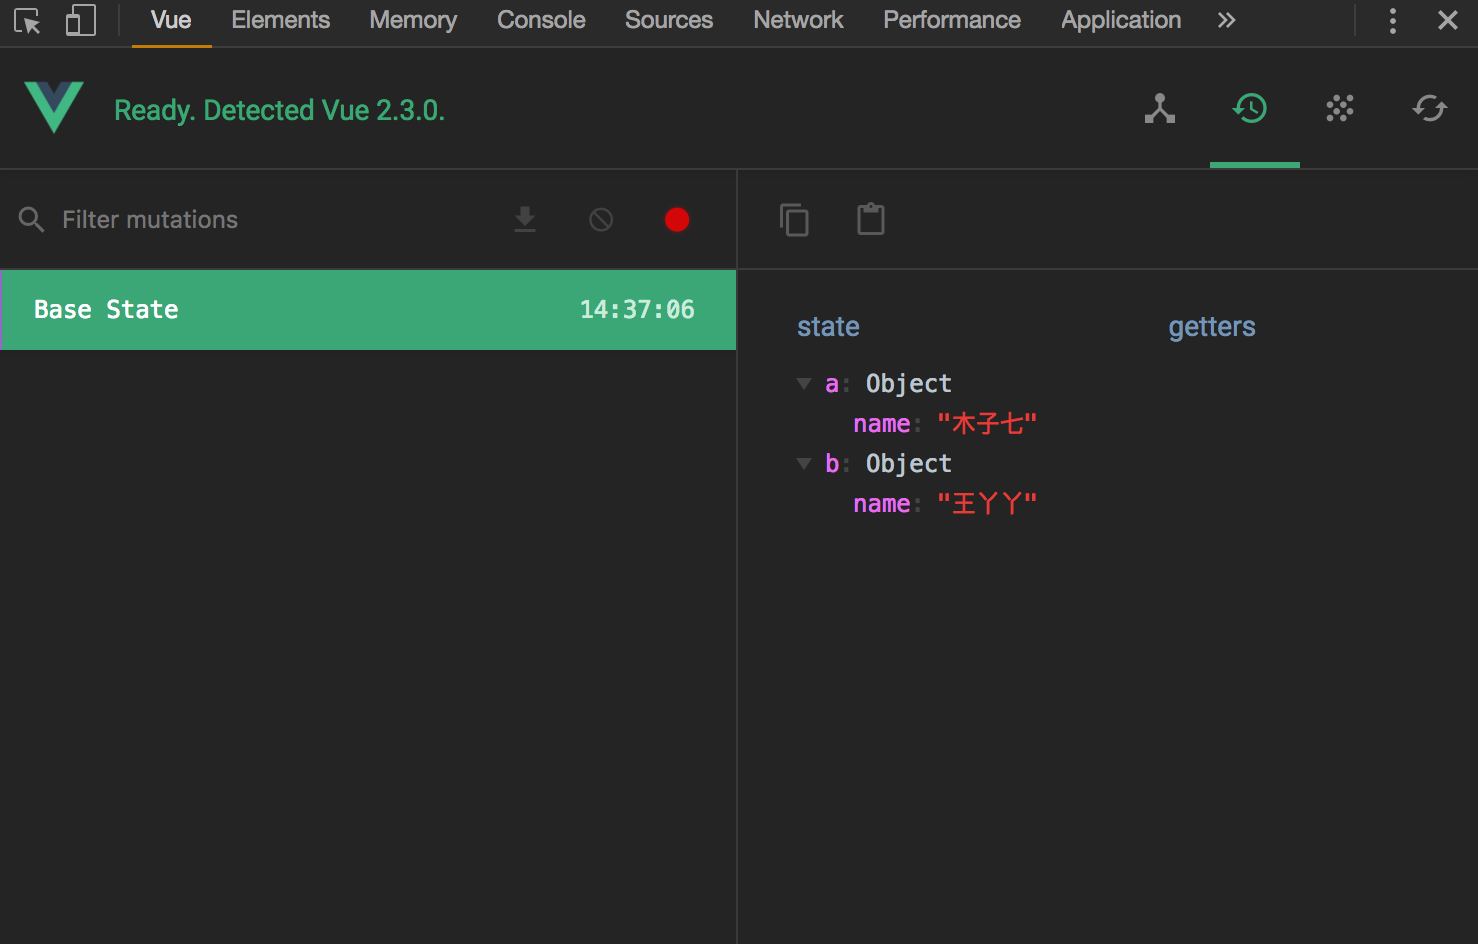
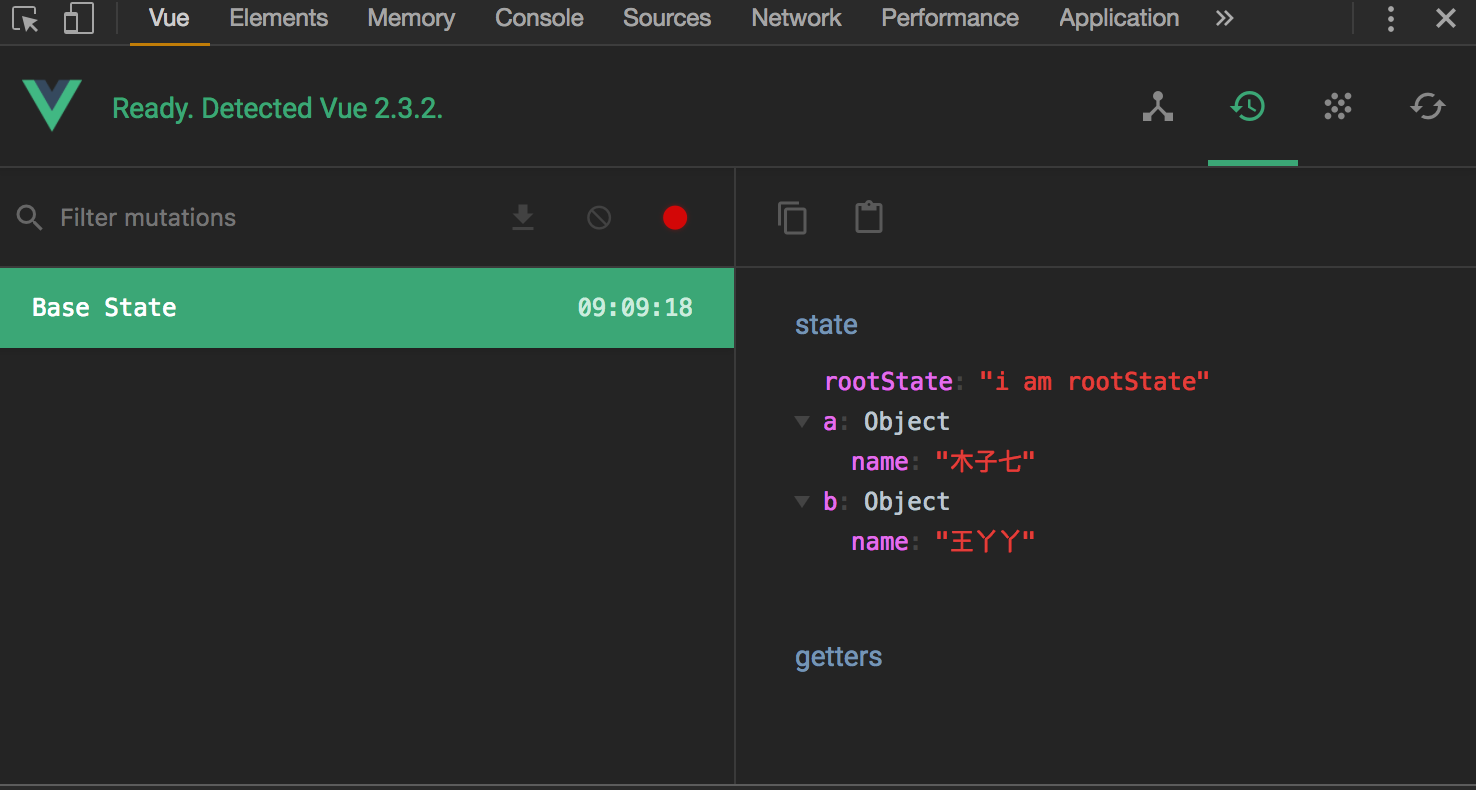
complete Vuex project

diff --git a/Vue/Vuex/modules.md b/Vue/Vuex/modules.md
@@ -3,10 +3,10 @@
 - [Modules - 基础使用](#modules)
 - [Split - 拆分模块](#split)
 
-### Modules
+## Modules
 ##### [返回索引](#索引)
 **基础**
-> 未拆分的情况下，使用 modules 属性
+> 在未拆分的情况下，使用 modules 属性
 
 在 `./main.js` 中定义modules
 ``` javascript
@@ -30,6 +30,9 @@ const ModuleB = {
 
 // use modules
 const store = new Vuex.Store({
+    state: {
+        rootState: 'i am rootState'
+    },
     modules: {
         a: ModuleA,
         b: ModuleB
@@ -51,42 +54,26 @@ new Vue({
 
 ![s](./images/modules-state.png)
 
-### 引用模版中的 `state` 状态数据有两种方式：
-- 传统使用 computed 属性引用
-``` javascript
-export default {
-    computed: {
-        nameA () {
-            return this.$store.state.a.name
-        },
-        nameB () {
-            return this.$store.state.b.name
-        }
-    }
-}
-```
-
-- 辅助函数 mapState 引用
+🦊 可以看到，modules 中的 state 与根节点的 state 唯一的区别就是，modules 中的 state 被封装到一个对象里面，只要我们知道该对象的 key，就能访问到它。
 ``` javascript
 import { mapState } from 'vuex'
 export default {
     computed: {
-        ...mapState({
-            nameA (state) {
-                return state.a.name
-            },
-            nameB (state) {
-                return state.b.name
-            }
-        })
+        ...mapState([
+            'rootState',
+            'a',
+            'b'
+        ])
     }
 }
 ```
-### 其余属性 `mutations actions getters` 引用方式略微不同
-> `mutations actions getters` 依靠命名来区分彼此\
-以下使用一个简单 DEMO 来演示
 
 <br/>
+
+## `mutations actions getters`
+这些属性并不会像 modules 中的 state 一样，被一个对象所包裹；\
+事实上每一个模块中的这些属性，都是暴露出来的，所以他们的 **命名需要唯一**。\
+如下实例：
 
 `./main.js`
 ``` javascript
@@ -101,6 +88,8 @@ const ModuleA = {
     count: 0
   },
   getters: {
+    // @param [state]     该参数是局部的，访问的是 module 中的状态
+    // @param [rootState] 该参数访问的是根节点的 state 状态
     countFilterA (state, getters, rootState) {
       if (state.count > 5) {
         return state.count
@@ -113,7 +102,6 @@ const ModuleA = {
     }
   },
   actions: {
-    // rootState 是根节点 store.state 的状态
     increaseAsyncA ({ state, commit, rootState }) {
       if ((state.count + rootState.count) % 2 === 1) {
         commit('increaseA')
@@ -166,8 +154,8 @@ new Vue({
     <div class="contianer">
         {{countFilterA}}
         {{countFilterB}}
-        <p>module-a: <button @click="increaseA">{{countA}}</button></p>
-        <p>module-b: <button @click="increaseB">{{countB}}</button></p>
+        <p>module-a: <button @click="increaseA">{{a.count}}</button></p>
+        <p>module-b: <button @click="increaseB">{{b.count}}</button></p>
         <button @click="increaseAsyncA">actions</button>
     </div>
 </template>
@@ -181,14 +169,10 @@ import { mapActions } from 'vuex'
 export default {
     computed: {
         // state
-        ...mapState({
-            countA (state) {
-                return state.a.count
-            },
-            countB (state) {
-                return state.b.count
-            }
-        }),
+        ...mapState([
+            'a',
+            'b'
+        ]),
         // getters
         ...mapGetters([
             'countFilterA',
@@ -210,4 +194,210 @@ export default {
 </script>
 ```
 
-### split
+## split
+> vuex 的模块拆分没有想象中的那么难，只要掌握 ES6 中 [Modules](http://www.infoq.com/cn/articles/es6-in-depth-modules) 相关的知识，就很容易理解。
+
+### 1.项目结构
+```
+|-demo
+  |--build
+  |--config
+  |--node_modules
+  |--src
+  |  |--assets
+  |  |--components
+  |  |--store
+  |  |  |--actions 
+  |  |  |  |--aAction.js
+  |  |  |  |--bAction.js
+  |  |  |  |--cAction.js
+  |  |  |--constants
+  |  |  |  |--types.js
+  |  |  |--getters
+  |  |  |  |--aGetter.js
+  |  |  |--modules
+  |  |  |  |--aModules.js
+  |  |  |  |--bModules.js
+  |  |  |  |--cModules.js
+  |  |  |--mutations
+  |  |  |  |--aMutation.js
+  |  |  |  |--bMutation.js
+  |  |  |  |--cMutation.js
+  |  |  |--index.js
+  |  |--App.vue
+  |  |--main.js
+  |--static
+  |--utils
+  |--test
+  |--index.html
+```
+- `contstants/types.js`
+    - 为了避免变量名冲突，这个 js 文件是用来存储一些 mutations 需要使用到的方法名称。
+- `actions/aAction.js`
+    - 所有的 actions 全部放在这个文件夹里。
+    - 我们可以使用 actions 异步请求数据，再使用 mutations 将请求到的数据提交给 state。
+- `mutations/aMutation.js`
+    - 所有的 mutations 全部放在这个文件夹里。
+    - mutations 负责提交修改对应的 modules 中 state 的值。
+- `getters/aGetter.js`
+    - 所有的 getters 圈全部放在这个文件夹里。
+- `modules/aModules.js`
+    - 这就是一个模块，所有的 `mutations actions getters` 都会作为变量导入到这里，组装成一个完整的模块。
+- `index.js`
+    - 出口文件，所有的模版汇集到这里，在根节点下组装，再导出到 main.js 中。
+- `../main.js`
+    - 在 main.js 中引入 store，完成整个模块制作。
+
+### 2.type.js
+> 这个文件负责定义 mutations 的方法名称。\
+为避免命名冲突，需按照以下格式命名：
+>> `event_moduleName_state`
+``` javascript
+// topics
+export const FETCH_TOPICS_REQ = 'FETCH_TOPICS_REQ'
+export const FETCH_TOPICS_SUC = 'FETCH_TOPICS_SUC'
+export const FETCH_TOPICS_ERR = 'FETCH_TOPICS_ERR'
+
+// comment
+// ...
+```
+
+### 3.actions && mutations
+> `actions` 与 `mutations` 一般配合使用\
+`actions` 是负责处理异步方法的，所以用它来完成 ajax 请求；\
+`mutations` 是负责处理同步方法的，并且改变 state 的值的唯一方式就是使用 `mutations` 提交；\
+所以， 当 `actions` 完成请求获取数据后，再使用 `mutations` 提交给 state。
+
+*actions/topics.js*
+``` javascript
+// 引入 type.js 中定义的方法名称
+import { FETCH_TOPICS_REQ, FETCH_TOPICS_SUC, FETCH_TOPICS_ERR } from '../constants/types'
+import axios from 'axios'
+
+// 所有的 actions 都写在 topicsActions 对象中
+// 格式：moduleNameActions
+export const topicsActions = {
+    // 请求 topics 的方法
+    fetchTopicsActions({ commit, state }, param) {
+        commit(FETCH_TOPICS_REQ);
+        axios({
+            method: 'get',
+            url: 'topics'
+        }).then((res) => {
+            commit(FETCH_TOPICS_SUC, {
+                data: res.data.data
+            })
+        }).catch((err) => {
+            commit(FETCH_TOPICS_ERR, {
+                error: err
+            });
+            console.log(err)
+        });
+    }
+}
+```
+
+*mutations/topic.js*
+``` javascript
+// 引入 type.js 中定义的方法名称
+import { FETCH_TOPICS_REQ, FETCH_TOPICS_SUC, FETCH_TOPICS_ERR } from '../constants/types'
+
+// 所有的 mutations 都写在 topicsMutations 对象中
+// 格式：moduleNameMutations
+export const topicMutations = {
+    FETCH_TOPICS_REQ(state) {
+        state.isFetching = true
+    },
+    FETCH_TOPICS_SUC(state, action) {
+        state.isFetching = false;
+        state.data = action.data
+    },
+    FETCH_TOPICS_ERR(state, action) {
+        state.isFetching = false;
+        state.error = action.error
+    }
+}
+```
+### 4.getters
+*getters/topic.js*
+``` javascript
+// 所有的 getters 都写在 topicsGetters 对象中
+// 格式：moduleNameGetters
+export const topicsGetters = {
+    getDataLen (state) {
+        return state.data.length
+    }
+}
+```
+
+### 5.modules
+*modules/topic.js*
+> 这里才是模块的主体，上面定义的 mutations actions getters 等文件都将作为变量引入到这里。\
+在这里定义模块的 state 值；\
+如果你不想将 getters 拆分出去，那可以单独在这里写 getter。
+``` javascript
+// 将定义好的 mutations actions getters 引入
+import { topicMutations } from '../mutations/topics'
+import { topicsActions } from '../actions/topics'
+import { topicsGetters } from '../getters/topics'
+
+// 组装一个模块
+const topics = {
+    state: {
+        isFetching: false,
+        data: []
+    },
+    getters: topicsGetters,
+    mutations: topicMutations,
+    actions: topicsActions
+} 
+
+// 导出该模块
+export default topics
+```
+
+### 6.index.js
+> index.js 是整个 modules 的出口文件；\
+所有模块都会汇集到这里，在根节点下组装，并导出到 main.js 文件中去
+
+*index.js*
+``` javascript
+import Vue from 'vue'
+import Vuex from 'vuex'
+Vue.use(Vuex)
+
+// 引入 modules
+import topics from './modules/topics'
+// import xxx from 'xxx'
+// ...
+
+// 根节点 store
+// 始终保持模块名称与导入名称一致
+// [topics: topics]
+const store = new Vuex.Store({
+    state: {
+        rootState: 'this is root state!'
+    },
+    modules: {
+        topics
+    }
+})
+
+export default store
+```
+
+### 7.main.js
+> main.js 是整个项目的出口文件。\
+在这个项目中引入 store，完成 vuex modules 的封装
+
+*../main.js*
+``` javascript
+// ...
+import store from './store'
+
+new Vue({
+    // ...
+    store,
+    // ...
+})
+```
